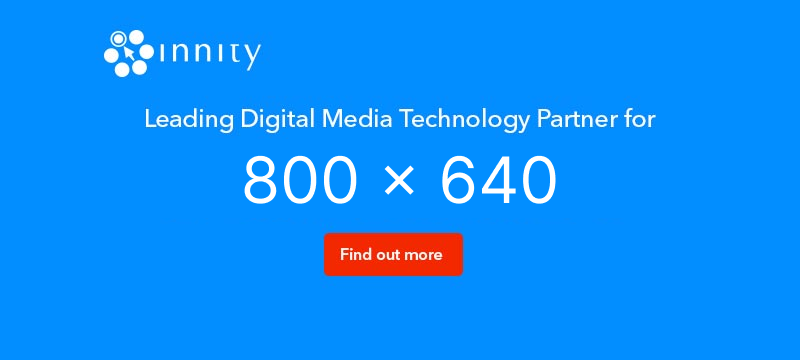
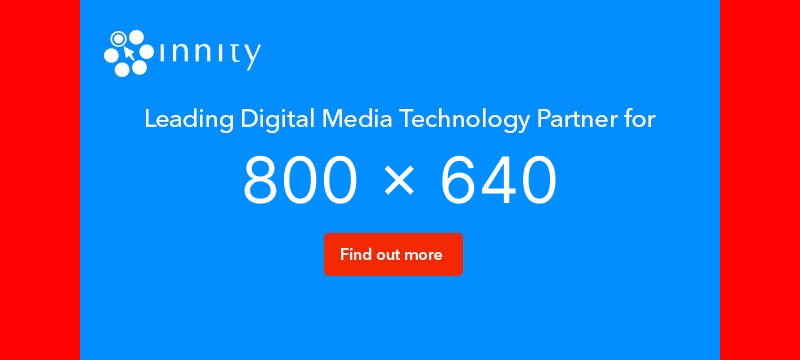
Add hide 100% width auto

Changed region(s): [[0.875, 0.0, 1.0, 1.0], [0.0, 0.0, 0.125, 1.0]]

diff --git a/index.html b/index.html
@@ -32,12 +32,12 @@
     </div>
     <div class="ad-format">
         <div class="content">
-            <!-- <div class="card-group">
+            <div class="card-group">
                 <img src="wider.png" alt="" class="card">
                 <img src="wider.png" alt="" class="card">
                 <img src="wider.png" alt="" class="card">
                 <img src="wider.png" alt="" class="card">
-            </div> -->
+            </div>
 
             <div class="card-group">
                 <img src="card_1.png" alt="" class="card">

diff --git a/style.css b/style.css
@@ -43,7 +43,8 @@ body{
 
 .card {
     visibility: hidden;
-    width: 90%;
+    height: 100%;
+    width: auto;
     position: absolute;
     border-radius: 12px; /*to be remove*/
     box-shadow: 0px 0px 5px 0px rgb(0 0 0 / 30%);
